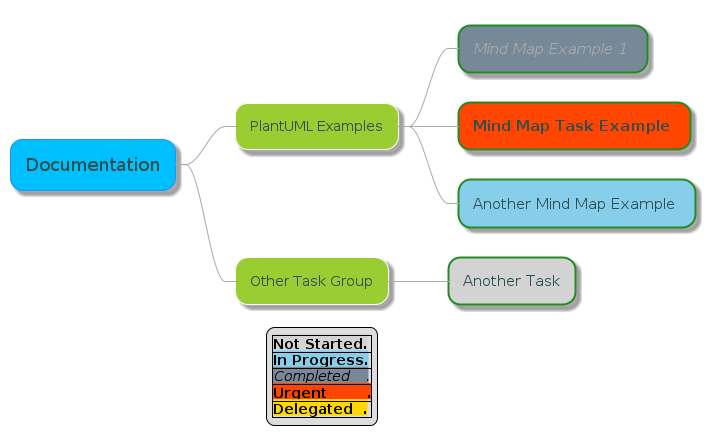
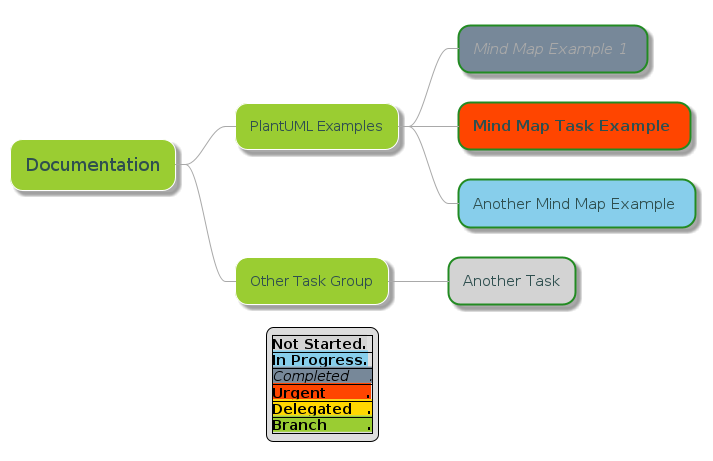
Updated tasks mind map and added C4 Model Component Diagram

diff --git a/docs/Diagram-Types/source/mindmap-tasks.md b/docs/Diagram-Types/source/mindmap-tasks.md
@@ -16,17 +16,17 @@ mindmapDiagram {
     Margin 15
     BackGroundColor YellowGreen
     FontColor DarkSlateGrey
-    LineColor white
+    LineColor White
     LineThickness 1.0
     MaximumWidth 320
   }
   rootNode {
     Padding 15
     Margin 15
-    BackGroundColor DeepSkyBlue
+    BackGroundColor YellowGreen
     FontColor DarkSlateGrey
     FontSize 18
-    LineColor DodgerBlue
+    LineColor White
     LineThickness 1.0
   }
   leafNode {
@@ -64,9 +64,10 @@ mindmapDiagram {
 legend
 |<back:LightGray><b>Not Started.</b></back>|
 |<back:SkyBlue><b>In Progress.</b></back>|
-|<back:LightSlateGrey><i>Completed    .</i></back>|
+|<back:LightSlateGrey><i>Completed     .</i></back>|
 |<back:OrangeRed><b>Urgent        .</b></back>|
-|<back:Gold><b>Delegated  .</b></back>|
+|<back:Gold><b>Delegated   .</b></back>|
+|<back:YellowGreen><b>Branch        .</b></back>|
 endlegend
 
 * Documentation

diff --git a/docs/Diagram-Types/source/c4-model-component-diagram.md b/docs/Diagram-Types/source/c4-model-component-diagram.md
@@ -1,3 +1,11 @@
+[<-Diagram Types](../diagram-types.md)
+
+# C4 Model Component Diagram
+
+![C4 Model Component Diagram](c4-model-component-diagram/c4-model-component-diagram.png)
+
+Source code:
+```plantuml
 @startuml
 !include https://raw.githubusercontent.com/plantuml-stdlib/C4-PlantUML/master/C4_Component.puml
 
@@ -29,3 +37,4 @@ Rel(basket_model, db_shop, "Reads and writes state & writes logs using", "JDBC")
 Rel(service, fulfil, "Retrieves listings and orders\nusing", "JSON/HTTPS")
 Rel(service, fulfil, "Sends message to place order using", "JSON/HTTPS")
 @enduml
+```

diff --git a/docs/Diagram-Types/diagram-types.md b/docs/Diagram-Types/diagram-types.md
@@ -46,6 +46,12 @@ Note: auto-detect activity diagram type by lines that start with : and end with 
 
 [(source PlantUML code)](source/c4-model-container-diagram.md)
 
+### C4 Model Component Diagram
+
+![C4 Model Component Diagram](source/c4-model-component-diagram/c4-model-component-diagram.png)
+
+[(source PlantUML code)](source/c4-model-component-diagram.md)
+
 
 <a name="class-diagram"/>
 
